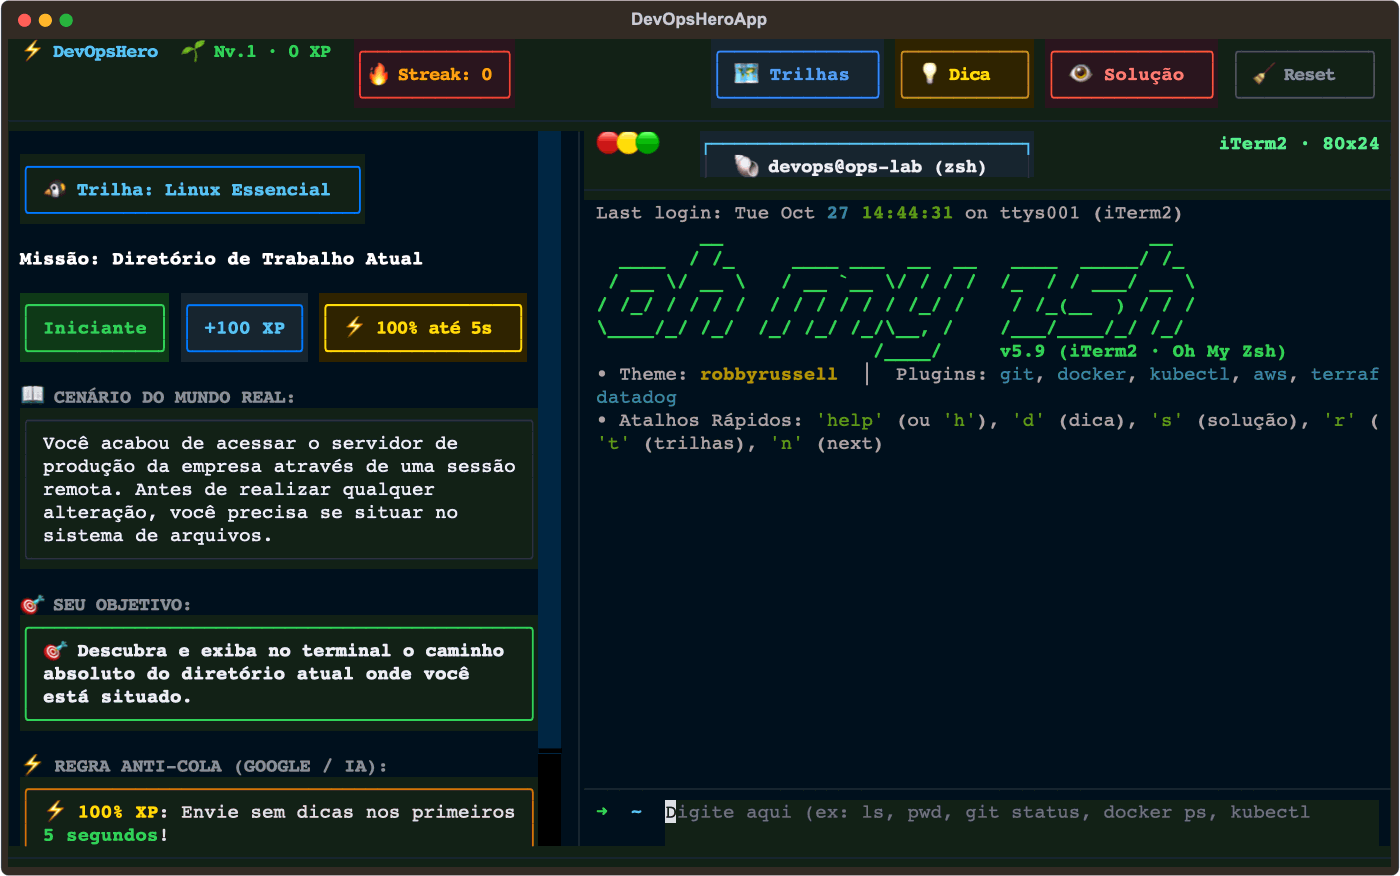
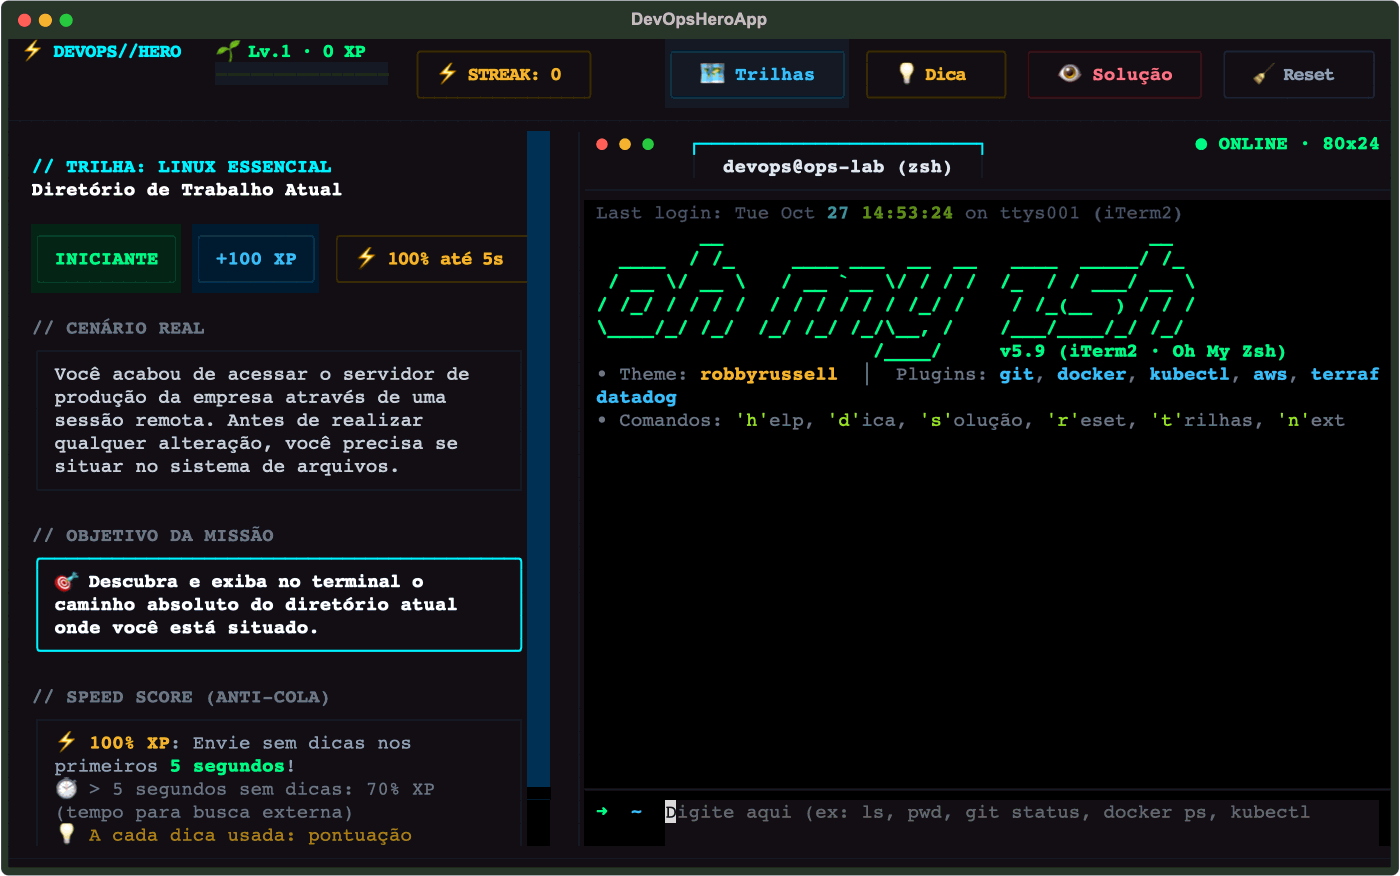
style(tui): overhaul interface with cyber-minimalist, sleek, bold futuristic aesthetic

diff --git a/devopsherocli/app.py b/devopsherocli/app.py
@@ -100,11 +100,11 @@ class DevOpsHeroApp(App):
     def compose(self) -> ComposeResult:
         # Top Header Bar
         with Horizontal(id="header-bar"):
-            yield Label("⚡ DevOpsHero", classes="brand")
+            yield Label("⚡ DEVOPS//HERO", classes="brand")
             with Vertical(classes="level-box"):
-                yield Label("🌱 Nv.1 · Recruta", id="lbl-level", classes="level-title")
+                yield Label("🌱 Lv.1 · 0 XP", id="lbl-level", classes="level-title")
                 yield ProgressBar(total=100, show_eta=False, id="xp-bar", classes="xp-bar-container")
-            yield Label("🔥 Streak: 0", id="lbl-streak", classes="streak-box")
+            yield Label("⚡ STREAK: 0", id="lbl-streak", classes="streak-box")
             with Horizontal(classes="nav-actions"):
                 yield Button("🗺 Trilhas", id="btn-tracks", classes="action-btn")
                 yield Button("💡 Dica", id="btn-tip", classes="action-btn")
@@ -114,24 +114,24 @@ class DevOpsHeroApp(App):
         # Main Body (Split into Mission Card & Terminal Screen)
         with Horizontal(id="main-container"):
             with VerticalScroll(id="mission-panel"):
-                yield Label("🐧 Trilha: Linux Essencial", id="lbl-mission-track", classes="mission-track-badge")
+                yield Label("// TRILHA: LINUX ESSENCIAL", id="lbl-mission-track", classes="mission-track-badge")
                 yield Label("Missão 1: Navegação Básica", id="lbl-mission-title", classes="mission-title")
                 with Horizontal(classes="meta-row"):
                     yield Label("Iniciante", id="lbl-diff-badge", classes="badge-diff")
                     yield Label("+100 XP", id="lbl-xp-badge", classes="badge-xp")
                     yield Label("⚡ 100% até 5s", id="lbl-speed-badge", classes="badge-speed")
 
-                yield Label("📖 CENÁRIO DO MUNDO REAL:", classes="section-label")
+                yield Label("// CENÁRIO REAL", classes="section-label")
                 yield Static("", id="box-context", classes="context-box")
 
-                yield Label("🎯 SEU OBJETIVO:", classes="section-label")
+                yield Label("// OBJETIVO DA MISSÃO", classes="section-label")
                 yield Static("", id="box-objective", classes="objective-box")
 
-                yield Label("⚡ REGRA ANTI-COLA (GOOGLE / IA):", classes="section-label")
+                yield Label("// SPEED SCORE (ANTI-COLA)", classes="section-label")
                 yield Static(
-                    "⚡ [bold #ffd60a]100% XP[/]: Envie sem dicas nos primeiros [bold #30d158]5 segundos[/]!\n"
+                    "⚡ [bold #fbbf24]100% XP[/]: Envie sem dicas nos primeiros [bold #00ff87]5 segundos[/]!\n"
                     "⏱ [dim]> 5 segundos sem dicas: 70% XP (tempo para busca externa)[/]\n"
-                    "💡 [dim yellow]A cada dica usada: pontuação reduzida (-60%, -80%...)[/]",
+                    "💡 [dim #fbbf24]A cada dica usada: pontuação reduzida (-60%, -80%...)[/]",
                     id="box-rules",
                     classes="rules-box",
                 )
@@ -141,18 +141,18 @@ class DevOpsHeroApp(App):
 
             with Vertical(id="terminal-panel"):
                 with Horizontal(id="term-title-bar"):
-                    yield Label("🔴 🟡 🟢", classes="term-dots")
+                    yield Label("[#ff5f56]●[/] [#ffbd2e]●[/] [#27c93f]●[/]", classes="term-dots")
                     with Horizontal(classes="iterm-tab-active"):
-                        yield Label("🐚 devops@ops-lab (zsh)", id="lbl-term-tab-title", classes="iterm-tab-title")
+                        yield Label("devops@ops-lab (zsh)", id="lbl-term-tab-title", classes="iterm-tab-title")
                     yield Static("", classes="term-bar-spacer")
-                    yield Label("iTerm2 · 80x24", id="lbl-term-status-badge", classes="term-status-badge")
+                    yield Label("● ONLINE · 80x24", id="lbl-term-status-badge", classes="term-status-badge")
                 yield RichLog(id="term-output-log", highlight=True, markup=True, wrap=True)
                 with Horizontal(id="term-input-container"):
                     yield Label("➜  ~ ", id="term-prompt")
                     yield Input(placeholder="Digite aqui (ex: ls, pwd, git status, docker ps, kubectl get...)", id="term-input")
 
         with Horizontal(id="footer-bar"):
-            yield Label("[bold #5ac8fa]F2[/] Trilhas  │  [bold #ffd60a]F3[/] Dica  │  [bold #ff6961]F4[/] Solução  │  [bold #8e8e93]F5[/] Reset  │  [bold #5ac8fa]Ctrl+L[/] Limpar  │  [bold #8e8e93]Ctrl+Q[/] Sair")
+            yield Label("[bold #00f2fe]F2[/] Trilhas  │  [bold #fbbf24]F3[/] Dica  │  [bold #fb7185]F4[/] Solução  │  [bold #94a3b8]F5[/] Reset  │  [bold #00f2fe]Ctrl+L[/] Limpar  │  [bold #64748b]Ctrl+Q[/] Sair")
 
     def on_mount(self) -> None:
         if is_powershell():
@@ -190,9 +190,9 @@ class DevOpsHeroApp(App):
         track = TRACKS_MAP.get(m.track_id)
         track_name = track.name if track else m.track_id
 
-        self.query_one("#lbl-mission-track", Label).update(f"{track.icon if track else '⚡'} Trilha: {track_name}")
-        self.query_one("#lbl-mission-title", Label).update(f"Missão: {m.title}")
-        self.query_one("#lbl-diff-badge", Label).update(m.difficulty)
+        self.query_one("#lbl-mission-track", Label).update(f"// TRILHA: {track_name.upper()}")
+        self.query_one("#lbl-mission-title", Label).update(m.title)
+        self.query_one("#lbl-diff-badge", Label).update(m.difficulty.upper())
         self.query_one("#lbl-xp-badge", Label).update(f"+{m.xp} XP")
 
         self.query_one("#box-context", Static).update(m.context)
@@ -202,7 +202,7 @@ class DevOpsHeroApp(App):
         tip_box = self.query_one("#box-tip", Static)
         if self.show_tip:
             tip_box.display = True
-            tip_box.update(f"💡 [bold]Dica:[/bold] {m.tip}")
+            tip_box.update(f"💡 [bold #fbbf24]DICA:[/] {m.tip}")
         else:
             tip_box.display = False
 
@@ -210,7 +210,7 @@ class DevOpsHeroApp(App):
         sol_box = self.query_one("#box-solution", Static)
         if self.show_solution:
             sol_box.display = True
-            sol_box.update(f"👁 [bold red]Gabarito:[/bold red] [bold cyan]{m.solution}[/]")
+            sol_box.update(f"👁 [bold #fb7185]GABARITO:[/] [bold #00f2fe]{m.solution}[/]")
         else:
             sol_box.display = False
 
@@ -220,27 +220,27 @@ class DevOpsHeroApp(App):
         xp_curr = max(0, self.progress.xp - min_xp)
         pct = min(100, int((xp_curr / xp_span) * 100))
 
-        self.query_one("#lbl-level", Label).update(f"{icon} Nv.{lvl} · {self.progress.xp} XP")
+        self.query_one("#lbl-level", Label).update(f"{icon} Lv.{lvl} · {self.progress.xp} XP")
         self.query_one("#xp-bar", ProgressBar).update(progress=pct)
 
         bonus = self.progress.get_streak_bonus_pct()
-        streak_txt = f"🔥 Streak: {self.progress.streak}" + (f" (+{bonus}%)" if bonus > 0 else "")
+        streak_txt = f"⚡ STREAK: {self.progress.streak}" + (f" (+{bonus}%)" if bonus > 0 else "")
         self.query_one("#lbl-streak", Label).update(streak_txt)
 
     def get_ohmyzsh_prompt(self, success: bool = True) -> str:
-        arrow_color = "#30d158" if success else "#ff453a"
+        arrow_color = "#00ff87" if success else "#fb7185"
         cwd = self.state.linux.cwd.replace("/home/devops", "~")
 
         git_segment = ""
         if self.state.git.is_repo:
             branch = self.state.git.current_branch or "main"
             is_dirty = bool(self.state.git.staged_files or self.state.git.unstaged_files or self.state.git.untracked_files)
-            dirty_sym = " [bold #ffd60a]✗[/]" if is_dirty else ""
-            git_segment = f" [bold #5ac8fa]git:([/][bold #ff453a]{branch}[/]{dirty_sym}[bold #5ac8fa])[/]"
+            dirty_sym = " [bold #fbbf24]✗[/]" if is_dirty else ""
+            git_segment = f" [bold #00f2fe]git:([/][bold #fb7185]{branch}[/]{dirty_sym}[bold #00f2fe])[/]"
         elif "git" in self.state.linux.cwd:
-            git_segment = " [bold #5ac8fa]git:([/][bold #ff453a]main[/][bold #5ac8fa])[/]"
+            git_segment = " [bold #00f2fe]git:([/][bold #fb7185]main[/][bold #00f2fe])[/]"
 
-        return f"[bold {arrow_color}]➜[/]  [bold #5ac8fa]{cwd}[/]{git_segment} "
+        return f"[bold {arrow_color}]➜[/]  [bold #38bdf8]{cwd}[/]{git_segment} "
 
     def update_prompt(self) -> None:
         prompt_markup = self.get_ohmyzsh_prompt(self.last_command_success)
@@ -249,13 +249,13 @@ class DevOpsHeroApp(App):
     def print_welcome_message(self) -> None:
         log = self.query_one("#term-output-log", RichLog)
         cur_time = time.strftime("%a %b %d %H:%M:%S")
-        log.write(f"[dim]Last login: {cur_time} on ttys001 (iTerm2)[/]")
+        log.write(f"[dim #64748b]Last login: {cur_time} on ttys001 (iTerm2)[/]")
 
         if is_powershell():
             log.write(Panel(
                 get_powershell_humor_message(),
-                title="[bold #ffd60a]⚠  PowerShell Easter Egg[/]",
-                border_style="#ffd60a",
+                title="[bold #fbbf24]⚠  PowerShell Easter Egg[/]",
+                border_style="#fbbf24",
             ))
             self.notify(
                 "Você realmente chama isso de terminal?! 😂 Recomendamos um de verdade longe do Windows... Mas relaxa, o DevOpsHero roda suave até aqui!",
@@ -273,9 +273,9 @@ class DevOpsHeroApp(App):
             "                        /____/     v5.9 (iTerm2 · Oh My Zsh)",
         ]
         for line in omz_lines:
-            log.write(Text(line, style="bold #30d158"))
-        log.write("[dim]• Theme: [bold #ffd60a]robbyrussell[/]  │  Plugins: [cyan]git[/], [cyan]docker[/], [cyan]kubectl[/], [cyan]aws[/], [cyan]terraform[/], [cyan]datadog[/][/dim]")
-        log.write("[dim]• Atalhos Rápidos: [bold #5ac8fa]'help'[/] (ou [bold #5ac8fa]'h'[/]), [bold #ffd60a]'d'[/] (dica), [bold #ff7b72]'s'[/] (solução), [bold #30d158]'r'[/] (reset), [bold #5ac8fa]'t'[/] (trilhas), [bold #30d158]'n'[/] (next)[/dim]\n")
+            log.write(Text(line, style="bold #00ff87"))
+        log.write("[#64748b]• Theme: [bold #fbbf24]robbyrussell[/]  │  Plugins: [bold #38bdf8]git[/], [bold #38bdf8]docker[/], [bold #38bdf8]kubectl[/], [bold #38bdf8]aws[/], [bold #38bdf8]terraform[/], [bold #38bdf8]datadog[/][/]")
+        log.write("[#64748b]• Comandos: [bold #00f2fe]'h'[/]elp, [bold #fbbf24]'d'[/]ica, [bold #fb7185]'s'[/]olução, [bold #00ff87]'r'[/]eset, [bold #00f2fe]'t'[/]rilhas, [bold #00ff87]'n'[/]ext[/]\n")
 
     @on(Input.Submitted, "#term-input")
     def handle_terminal_input(self, event: Input.Submitted) -> None:
